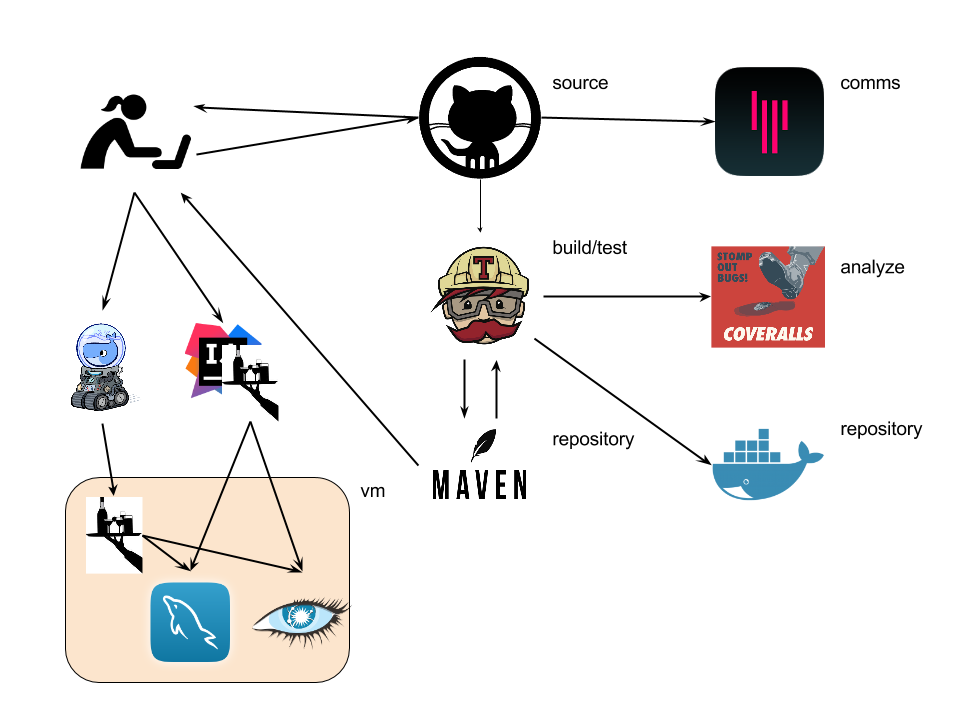
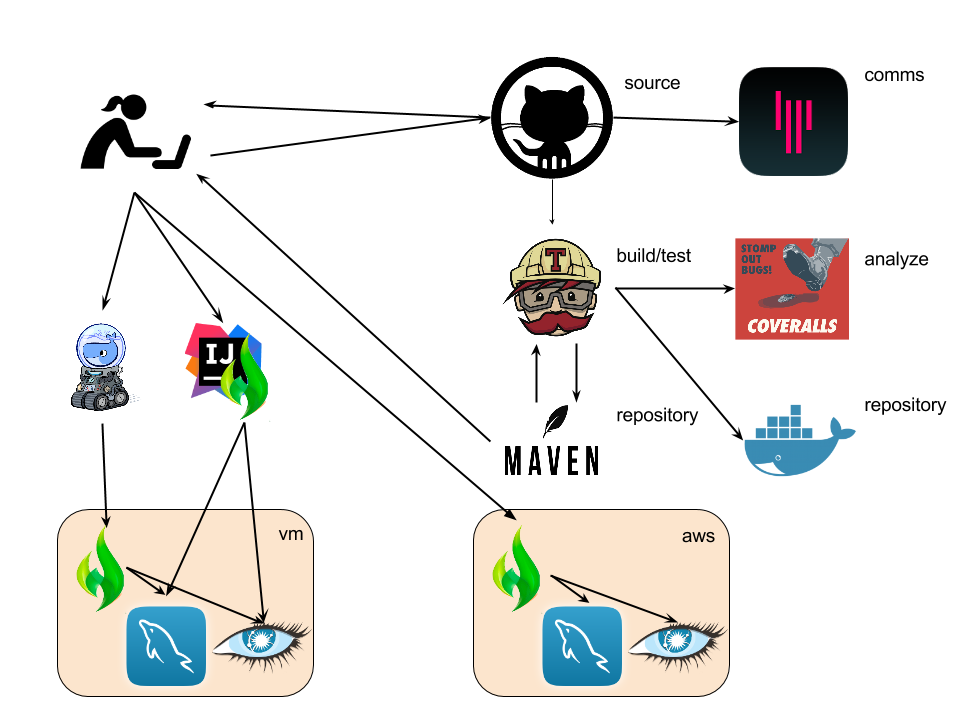
mod: cleanup getting-started, update associated images

diff --git a/slate/source/includes/_getting_started.md b/slate/source/includes/_getting_started.md
@@ -1,6 +1,7 @@
 # Getting Started with Wasabi
 
-Installing Wasabi is straightforward. The following steps will install the needed tools, build and run a complete stack.
+Installing Wasabi is straightforward. The following steps will install the needed tools, build and run a complete
+stack noting that at this time only OSX is supported.
 
 ## Bootstrap Your Environment
 
@@ -12,8 +13,6 @@ Installing Wasabi is straightforward. The following steps will install the neede
 % cd wasabi
 % ./bin/wasabi.sh bootstrap
 ```
-
-For OSX, you can get started as shown.
 
 Installed tools include: [homebrew 0.9](http://brew.sh), [git 2](https://git-scm.com),
 [maven 3](https://maven.apache.org), [java 1.8](http://www.oracle.com/technetwork/java/javase/overview/index.html),
@@ -30,7 +29,7 @@ wasabi is operational:
 
   ui: % open http://192.168.99.100:8080     note: sign in as admin/admin
   api: % curl -i http://192.168.99.100:8080/api/v1/ping
-  debug: attach debuger to 192.168.99.100:8180
+  debug: attach a remote debugger to 192.168.99.100:8180
 
 % curl -i http://$(docker-machine ip wasabi):8080/api/v1/ping
 HTTP/1.1 200 OK
@@ -125,9 +124,7 @@ with this API Request:
 If the 'userID1' user does an action, such as clicking the buy button, you'd record it with this API Request: 
 <div></div>
 
-## Explore Various Resources
-
-The following developer resources are available:
+## Developer Resources
 
 > API: Swagger API playground
 
@@ -181,7 +178,7 @@ start up much more quickly. Additionally there is no further need to include the
 
 ## Get Familiar with wasabi.sh
 ```bash
-% ./bin/wasabi.sh -h
+% ./bin/wasabi.sh --help
   
   usage: wasabi.sh [options] [commands]
   
@@ -247,11 +244,11 @@ Wasabi server on localhost.
 
 ```javascript
 development: {
-                constants: {
-                    supportEmail: 'you@example.com',
-                    apiHostBaseUrlValue: 'http://localhost:8080/api/v1'
-                }
-            }
+  constants: {
+    supportEmail: 'you@example.com',
+    apiHostBaseUrlValue: 'http://localhost:8080/api/v1'
+  }
+}
 ```
 
 ```bash
@@ -314,6 +311,6 @@ Ok, that was a ground to cover. Here is a high level overview of the operational
 
 ![OverView](getting_started/landscape.png)
 
-And lastly, as a teaser, here is a technology stack diagram of the elements of which Wasabi is comprised of:
+And lastly, here is a technology stack diagram of the elements of which a Wasabi instance is comprised of:
 
 ![TechStack](getting_started/stack.png)
